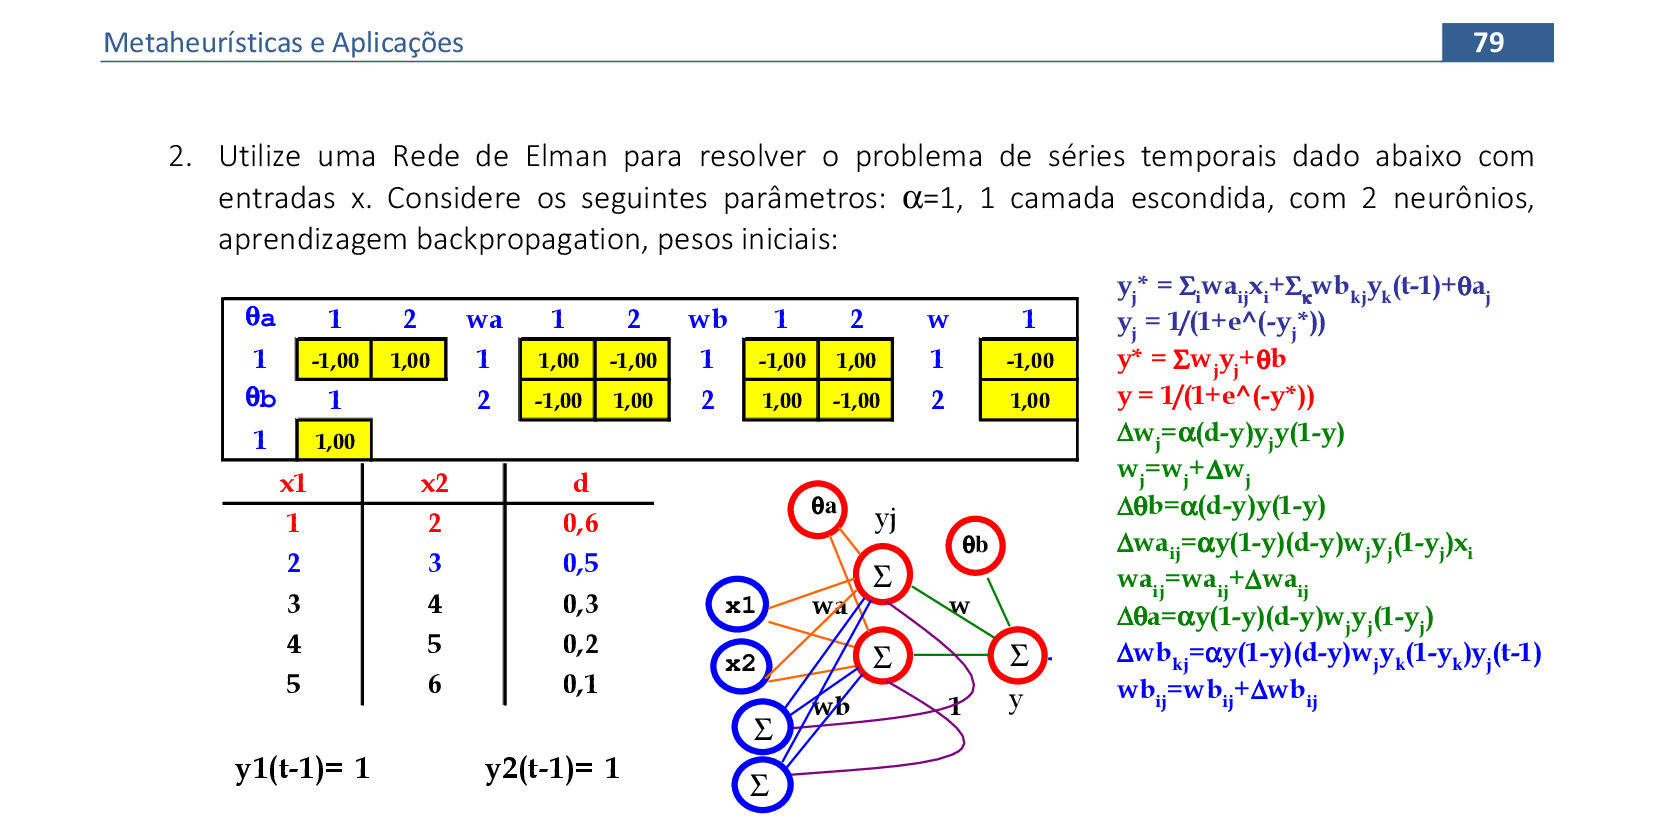
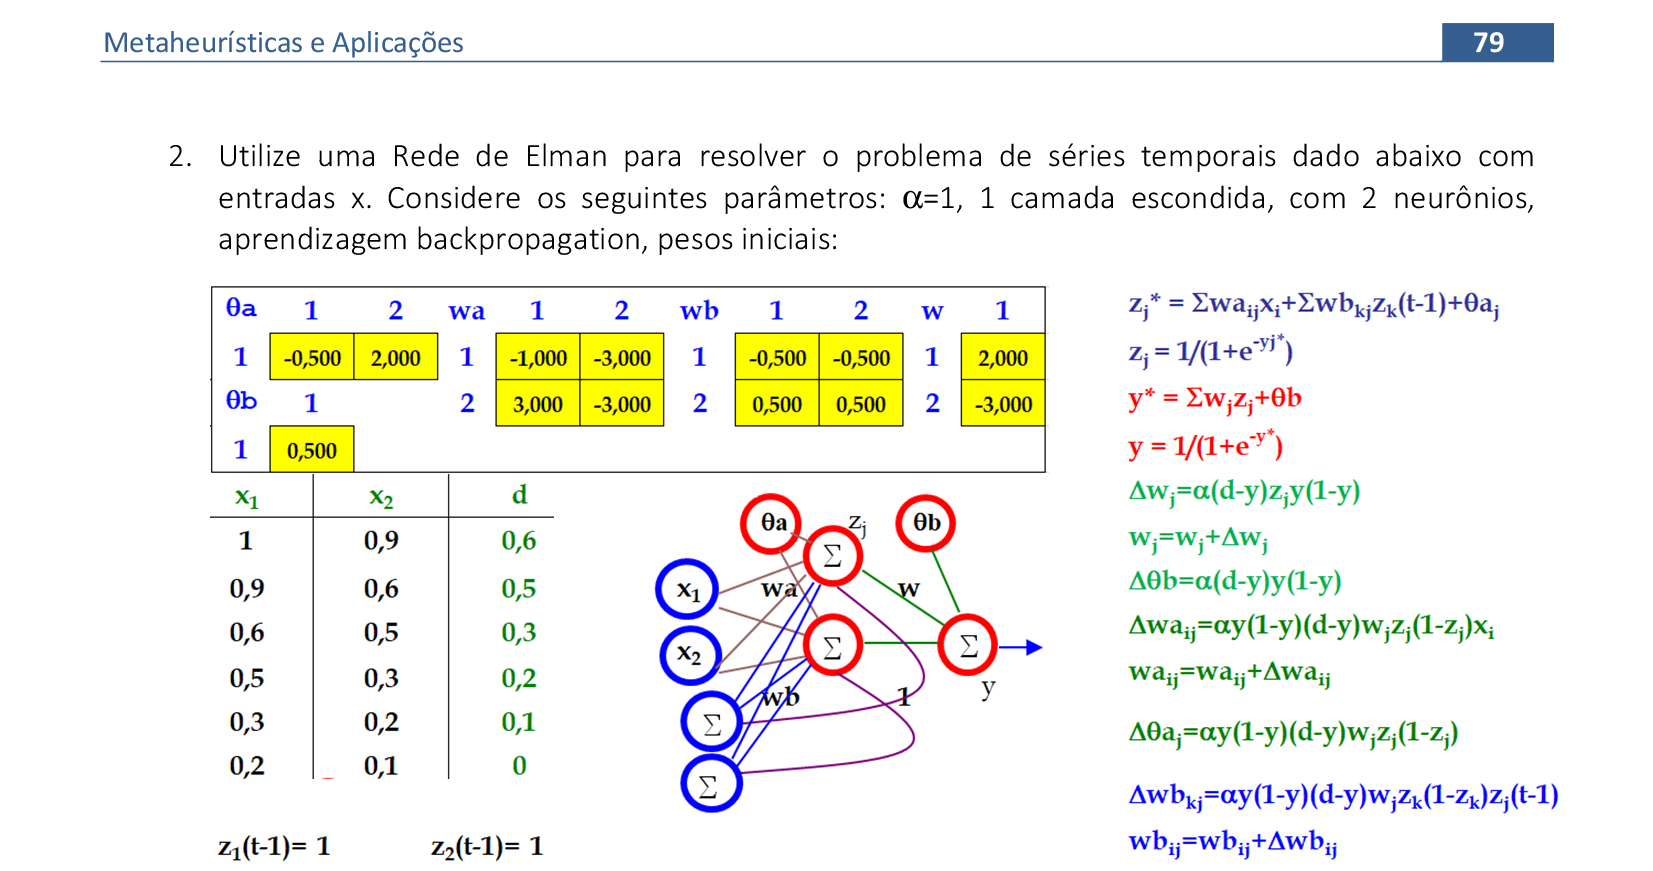
update

diff --git a/README.md b/README.md
@@ -1855,7 +1855,7 @@ inicialize a taxa de aprendizagem &alpha;. Para cada padrão de entrada, execute
 			   <input type="radio" id="211" name="sl">
 			   <label for="211"></label>
 			   <img src="parte5/75_05_01.png"/>
-			   <figcaption>Vamos utilizar os padrões de entrada x para prever 2 passos à frente: (0.1, 0.2) para prever (0.75, 0.6); (0.2, 0.3) para prever (0.6, 0.55); e assim sucessivamente. Apresentamos o primeiro padrão de entrada para a rede: (0.1, 0.2).</figcaption>
+			   <figcaption>Vamos utilizar os padrões de entrada t para prever 2 passos à frente: (0.1, 0.2) para prever (0.75, 0.6); (0.2, 0.3) para prever (0.6, 0.55); e assim sucessivamente. Apresentamos o primeiro padrão de entrada para a rede: (0.1, 0.2).</figcaption>
 		   </li>
 		   <li>
 			   <input type="radio" id="212" name="sl">
@@ -1917,8 +1917,75 @@ inicialize a taxa de aprendizagem &alpha;. Para cada padrão de entrada, execute
   <img src="parte5/apostila_2020_53_81_00078.png"/>
   <p class="topop"><a href="#parte5" class="topo">voltar ao topo</a></p>
   <img src="parte5/apostila_2020_53_81_00079.png"/>
+  <div class="combo"><details class="sub"><summary>&#x1f4c3; Resolução</summary>
+	<p>Vamos acompanhar os cálculos deste exercício de treinamento de uma rede recorrente de Elman, com 2 neurônios na camada escondida.</p>
+	  <ul class="slider">
+		   <li>
+			   <input type="radio" id="221" name="sl">
+			   <label for="221"></label>
+			   <img src="parte5/79_01_01.png"/>
+			   <figcaption>Vamos utilizar os padrões de entrada x para prever 1 passo à frente: (1, 0.9) para prever 0.6; (0.9, 0.6) para prever 0.5; e assim sucessivamente.</figcaption>
+		   </li>
+		   <li>
+			   <input type="radio" id="222" name="sl">
+			   <label for="222"></label>
+			   <img src="parte5/79_01_02.png"/>
+			   <figcaption>Apresentamos o padrão de entrada (1, 0.9) para a rede. O peso inicial dos neurônios recorrentes z<sub>1</sub>(t&minus;1) e z<sub>2</sub>(t&minus;1) começam com valor 1.</figcaption>
+		   </li>
+		   <li>
+			   <input type="radio" id="223" name="sl">
+			   <label for="223"></label>
+			   <img src="parte5/79_01_03.png"/>
+			   <figcaption>Apresentamos o padrão de entrada (0.9, 0.6) para a rede.</figcaption>
+		   </li>
+		   <li>
+			   <input type="radio" id="224" name="sl">
+			   <label for="224"></label>
+			   <img src="parte5/79_01_04.png"/>
+			   <figcaption>Apresentamos o padrão de entrada (0.6, 0.5) para a rede.</figcaption>
+		   </li>
+		   <li>
+			   <input type="radio" id="225" name="sl">
+			   <label for="225"></label>
+			   <img src="parte5/79_01_05.png"/>
+			   <figcaption>Apresentamos o padrão de entrada (0.5, 0.3) para a rede.</figcaption>
+		   </li>
+		   <li>
+			   <input type="radio" id="226" name="sl">
+			   <label for="226"></label>
+			   <img src="parte5/79_01_06.png"/>
+			   <figcaption>Apresentamos o padrão de entrada (0.3, 0.2) para a rede.</figcaption>
+		   </li>
+		   <li>
+			   <input type="radio" id="227" name="sl">
+			   <label for="227"></label>
+			   <img src="parte5/79_01_07.png"/>
+			   <figcaption>Apresentamos o padrão de entrada (0.2, 0.1) para a rede.</figcaption>
+		   </li>
+		   <li>
+			   <input type="radio" id="228" name="sl">
+			   <label for="228"></label>
+			   <img src="parte5/79_01_08.png"/>
+			   <figcaption>No final da 1&ordf; iteração, temos o erro médio E = 0,137.</figcaption>
+		   </li>
+		   <li>
+			   <input type="radio" id="229" name="sl">
+			   <label for="229"></label>
+			   <img src="parte5/79_01_09.png"/>
+			   <figcaption>Iniciamos a 2&ordf; iteração com a apresentação do padrão (1, 0.9) para a rede.</figcaption>
+		   </li>
+		   <li>
+			   <input type="radio" id="229" name="sl">
+			   <label for="229"></label>
+			   <img src="parte5/79_01_10.png"/>
+			   <figcaption>No final da 7&ordf; iteração, temos o erro médio E = 0,004.</figcaption>
+		   </li>
+		</ul>
+		<img src="parte5/79_01_01.png" class="fundo" style="visibility:hidden" />
+  </details></div>
   <img src="parte5/apostila_2020_53_81_00079a.png"/>
   <img src="parte5/apostila_2020_53_81_00079b.png"/>
+  <img src="parte5/apostila_2020_53_81_00079c.png"/>
   <p class="topop"><a href="#parte5" class="topo">voltar ao topo</a></p>
   <img src="parte5/apostila_2020_53_81_00080.png"/>
   <p class="topop"><a href="#parte5" class="topo">voltar ao topo</a></p>
